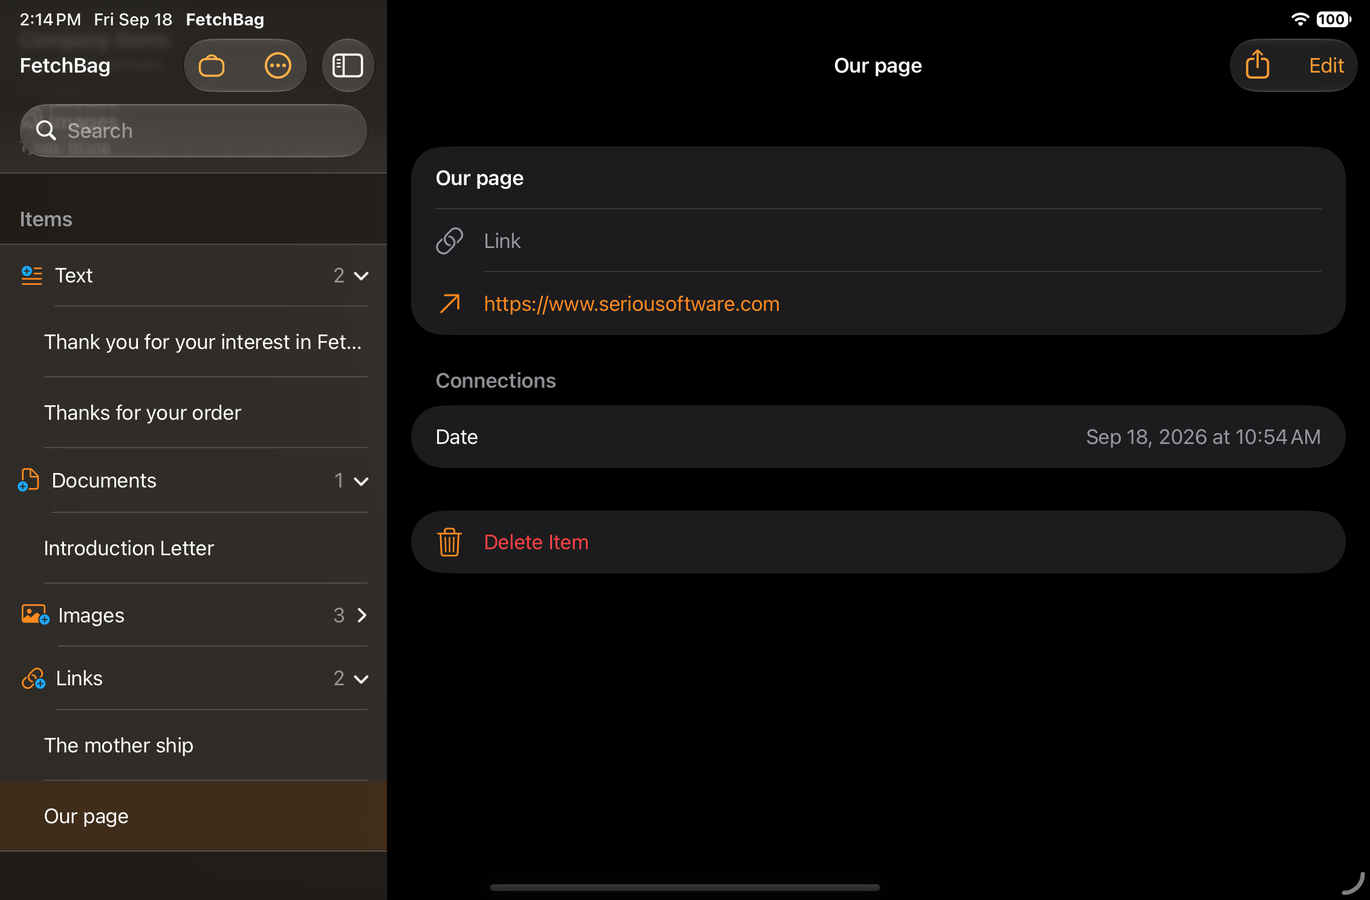
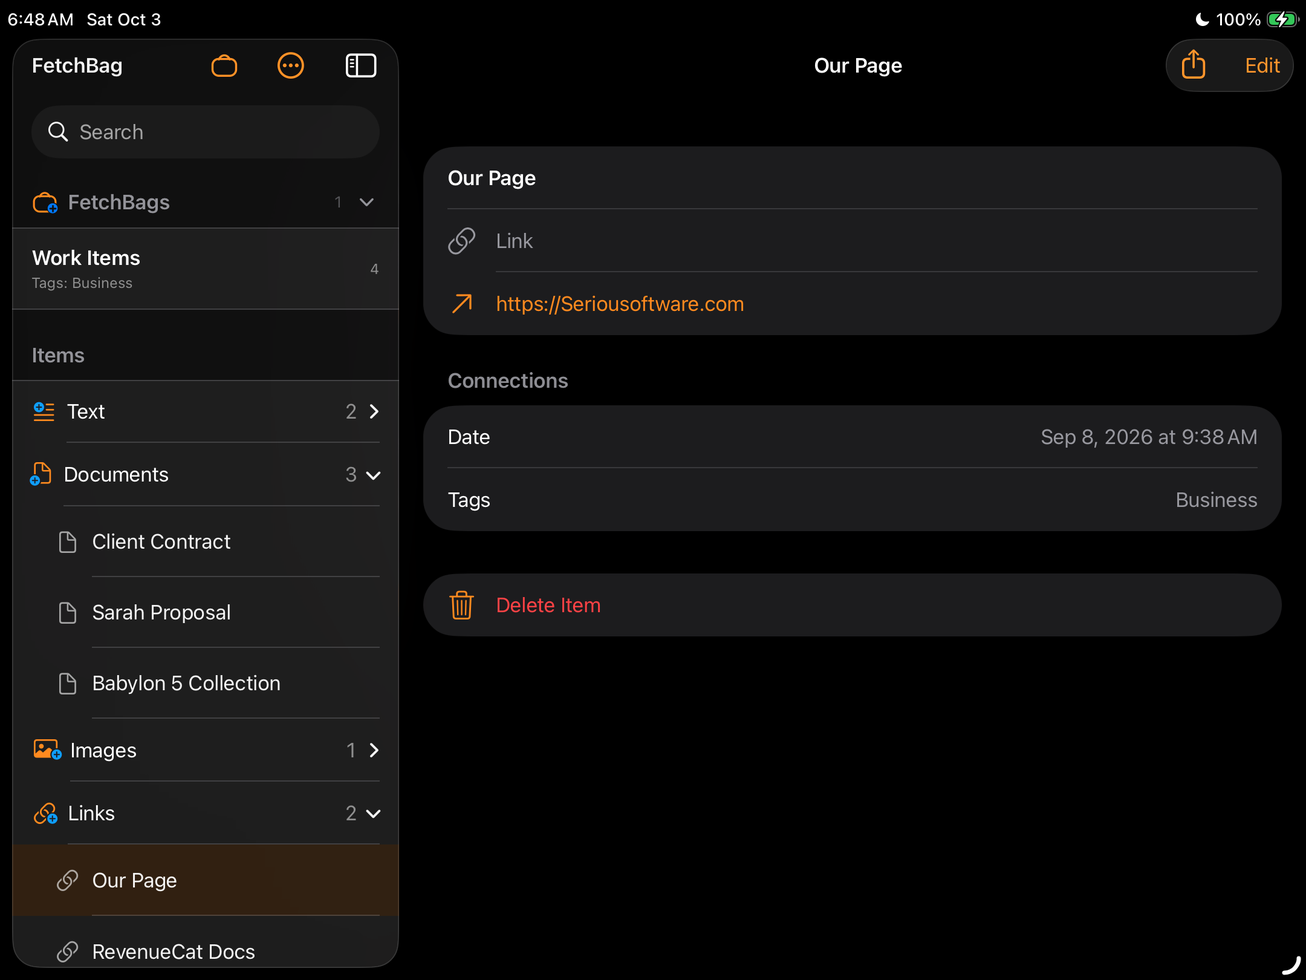
website updates for the 1.1.2 release.

diff --git a/fetchbag/manual/getting-started.html b/fetchbag/manual/getting-started.html
@@ -33,7 +33,7 @@
                 <p>FetchBag is a focused place for information you expect to use again. Save reusable text, documents, images, and web links, connect them to the context you remember, then fetch the right thing when you need it.</p>
 
                 <figure class="documentation__figure">
-                    <img src="/assets/images/fetchbag/manual/library-overview.png" alt="FetchBag main library screen showing the Text, Documents, Images, Links, and FetchBags sections">
+                    <img src="/assets/images/fetchbag/manual/library-overview.png" alt="FetchBag library showing a saved FetchBag and the Text, Documents, Images, and Links groups with a Link Item selected">
                 </figure>
 
                 <h2>Your FetchBag library</h2>
@@ -48,7 +48,9 @@
 
                 <h2>Where FetchBag stores your Items</h2>
                 <p>By default, FetchBag stores your Items and saved searches in a local FetchBag folder in the app's internal Documents directory.</p>
-                <p>You can choose a different storage folder in Settings. When you do, FetchBag asks whether you would like the current files moved to the new location.</p>
+                <p>You can choose a different storage folder in Settings. If your current library contains Items, FetchBag asks whether to move the existing files or switch folders without moving them.</p>
+                <p>To use the same FetchBag on multiple devices, choose a folder available on each device, such as a folder in iCloud Drive. In FetchBag Settings on each device, select that same FetchBag folder. Your Items, their connections, and saved FetchBags become available as iCloud Drive or your storage provider synchronizes the folder. FetchBag does not provide its own cloud synchronization.</p>
+                <p>Referenced Documents need separate permission on each device. See <a href="#document-access">Using a Document on another device</a> below.</p>
 
                 <h2>Add something you want to use again</h2>
                 <p>Every Item has a title and can also include a date, people, places, and tags. The Item type determines the primary content you add.</p>
@@ -59,7 +61,7 @@
                 <p>Once saved, a Text Item includes an <strong>Email</strong> action. FetchBag opens your default email app with the Item's title as the subject and its Text as the message body.</p>
 
                 <figure class="documentation__figure">
-                    <img src="/assets/images/fetchbag/manual/add-text-screen.png" alt="Add Text screen showing Title, Text, Date, People, Places, and Tags fields with sample content">
+                    <img src="/assets/images/fetchbag/manual/add-text-screen.png" alt="Text Item editor with a sample reply, empty People and Places fields, and a Date">
                 </figure>
 
                 <h3>Add a Link Item</h3>
@@ -73,14 +75,23 @@
                 <p>When available, FetchBag uses photo metadata to help add context automatically. It can use the image creation date as the Item date and, when GPS metadata is available, resolve the image location to a city and state.</p>
 
                 <figure class="documentation__figure">
-                    <img src="/assets/images/fetchbag/manual/add-image-screen.png" alt="Add Image screen after selecting a photo, with Date and Place automatically filled from image metadata">
+                    <img src="/assets/images/fetchbag/manual/add-image-screen.png" alt="Image Item editor with a selected photo filename, Notes, People, Places, Date, and Tags fields">
                 </figure>
 
                 <h3>Add a Document Item</h3>
                 <p>Create a Document Item and choose a file. You can also add <strong>Notes</strong> about the document.</p>
                 <p>FetchBag can use the file name as the title and the file modification date as the Item date when those values are available.</p>
-                <p>FetchBag keeps a reference to the original document rather than making a copy. This means changes to the original remain available through FetchBag.</p>
-                <p>If the document is moved or FetchBag can no longer find it, the Document Item remains in FetchBag with its saved information. You can reconnect the FetchBag Item to the document's new location in FetchBag.</p>
+                <p>FetchBag references the original Document without copying it into your FetchBag folder. Changes to the original remain available through FetchBag.</p>
+
+                <h3 id="document-access">Using a Document on another device</h3>
+                <p>Each device needs permission to access a referenced Document. The first time you use it on another device, FetchBag may show <strong>Reselect Document</strong>. Select the original Document in Files to give that device access. FetchBag remembers the selection on that device for future use.</p>
+                <p>If the original moves or access is lost, use <strong>Reconnect File</strong> to select the original again. A cloud file may also be temporarily unavailable or still downloading; that does not mean it has been deleted. Check that the file is available in Files and try again.</p>
+                <p>Your Document Item's title, Notes, and connections remain in FetchBag even when the original is unavailable. If the original was deleted, restore it from its storage location or a backup before reconnecting.</p>
+                <!-- Screenshot pending: /assets/images/fetchbag/manual/document-recovery.png
+                     Capture a referenced Document in 1.1.2 showing Reselect Document on
+                     another device (or Reconnect File after access is lost). Add a
+                     documentation__figure here with alt text matching the captured state.
+                     Do not add an img reference until the actual screenshot exists. -->
 
                 <h2>Connect an Item to what you remember</h2>
                 <p>Finding something later is often easier when you remember its context rather than its exact title or filename.</p>
@@ -105,7 +116,7 @@
                 <p>FetchBag searches across titles, Item types, Text and Notes content, URLs, file names, people, places, and tags.</p>
 
                 <figure class="documentation__figure">
-                    <img src="/assets/images/fetchbag/manual/search-results.png" alt="Main library with active Search showing multiple matching results across different Item types">
+                    <img src="/assets/images/fetchbag/manual/search-results.png" alt="FetchBag library with an active search showing matching Text, Document, and Link Items and a sample Text Item selected">
                 </figure>
 
                 <h2>Use QuickBag for a compound search</h2>
@@ -126,7 +137,7 @@
                 <p>You can also run QuickBag without any criteria to see all Items.</p>
 
                 <figure class="documentation__figure">
-                    <img src="/assets/images/fetchbag/manual/quickbag-screen.png" alt="QuickBag definition screen with multiple criteria selected, including Item type, Person, Place, and Date range">
+                    <img src="/assets/images/fetchbag/manual/quickbag-screen.png" alt="QuickBag with Image selected and a Between date range; Title, Notes, Image Name, People, Places, and Tags are empty">
                 </figure>
 
                 <p>Run the search and all matching Items are displayed.</p>
@@ -140,15 +151,15 @@
                 <h2>Fetch and reuse an Item</h2>
                 <p>Select an Item to open its detail view. The available actions depend on what kind of Item you fetched.</p>
                 <ul>
-                    <li><strong>Text</strong> — reuse the saved Text or send it through your email app.</li>
-                    <li><strong>Document</strong> — share the original document with compatible apps.</li>
-                    <li><strong>Image</strong> — preview the image with Quick Look and use the system sharing options when needed.</li>
-                    <li><strong>Link</strong> — open the saved URL.</li>
+                    <li><strong>Text</strong> — select and copy the text, use <strong>Email</strong> to compose a message, or use <strong>Share</strong> to send it to another app.</li>
+                    <li><strong>Document</strong> — use <strong>Open</strong> to open the original Document with a compatible app, or use <strong>Share</strong>.</li>
+                    <li><strong>Image</strong> — use <strong>Quick View</strong> to preview the image with Quick Look, or use <strong>Share</strong>.</li>
+                    <li><strong>Link</strong> — tap the saved URL to open it, or use <strong>Share</strong>.</li>
                 </ul>
-                <p>If a referenced Document is no longer available, FetchBag keeps the Item and its saved information so you can reconnect it to the document's new location.</p>
+                <p>If you cannot open a referenced Document, follow the <a href="#document-access">Document access and recovery steps</a> above. Your saved Item and its connections remain available.</p>
 
                 <figure class="documentation__figure">
-                    <img src="/assets/images/fetchbag/manual/item-detail-view.png" alt="Item detail view showing title, content preview, connections, and retrieval actions like Copy and Open">
+                    <img src="/assets/images/fetchbag/manual/item-detail-view.png" alt="Image Item detail showing the Flowers title, filename, Quick View action, photo preview, and Share button">
                 </figure>
 
                 <h2>Use FetchBag with Shortcuts</h2>
@@ -158,7 +169,7 @@
 
                 <h2>Use FetchBag with a keyboard</h2>
                 <p>FetchBag supports hardware keyboards on iPad, including commands for creating Items, saving and editing, moving between fields, and working with QuickBag.</p>
-                <p>See <a href="/fetchbag/manual/keyboard-support.html">Keyboard Shortcuts</a> for the complete list of supported commands.</p>
+                <p>See <a href="/fetchbag/manual/keyboard-support.html">Keyboard Support</a> for the complete list of supported commands.</p>
 
                 <h2>Free and Pro</h2>
                 <p>The free version of FetchBag supports up to <strong>10 saved Items</strong>.</p>

diff --git a/fetchbag/faq/index.html b/fetchbag/faq/index.html
@@ -35,7 +35,7 @@
                     <summary class="faq__question">What is the difference between a QuickBag and a saved FetchBag?</summary>
                     <div class="faq__answer">
                         <p>QuickBag is a one-time compound search. Choose your criteria, run the search, and all matching Items will be displayed.</p>
-                        <p>If you want to use that search again, save it and give it a name. It then appears as a FetchBag in the FetchBags section.</p>
+                        <p>If you want to use that search again, save it and give it a <strong>Bag Name</strong>. It then appears as a FetchBag in the FetchBags section.</p>
                         <p>A saved FetchBag is a saved search. It does not move, copy, or own the Items it finds. Each time you open it, it shows the Items that currently match its criteria, including Items added after the FetchBag was saved.</p>
                     </div>
                 </details>
@@ -43,16 +43,18 @@
                 <details class="faq__item">
                     <summary class="faq__question">Where is my FetchBag data stored?</summary>
                     <div class="faq__answer">
-                        <p>By default, FetchBag stores your Items and saved searches in a local FetchBag folder in the Apps internal documents directory.</p>
-                        <p>You can choose a different storage folder in Settings. When you do that, FetchBag will ask if you would like the current files moved to the new location.</p>
+                        <p>By default, FetchBag stores your Items, their connections, and saved FetchBags in a local FetchBag folder in the app's internal Documents directory.</p>
+                        <p>You can choose a different storage folder in Settings. If your current library contains Items, FetchBag asks whether to move the existing files or switch folders without moving them.</p>
+                        <p>Referenced Documents remain in their original locations. FetchBag does not copy them into your FetchBag folder.</p>
                     </div>
                 </details>
 
                 <details class="faq__item">
                     <summary class="faq__question">Does FetchBag sync between devices?</summary>
                     <div class="faq__answer">
-                        <p>FetchBag does not have its own sync service. If you use the default folder in iCloud, iCloud handles synchronizing those files across your devices.</p>
-                        <p>FetchBag itself does not control or guarantee iCloud synchronization. If you choose a different storage folder, synchronization depends on the file-syncing services available for that folder.</p>
+                        <p>To use the same FetchBag on multiple devices, choose a storage folder available on each device, such as a folder in iCloud Drive. In FetchBag Settings on each device, select that same FetchBag folder.</p>
+                        <p>Your Items, their connections, and saved FetchBags are stored in that folder and become available as iCloud Drive or your storage provider synchronizes them. FetchBag does not provide its own cloud synchronization; the default local folder is not shared between devices.</p>
+                        <p>Referenced Documents are different. Each device needs permission to access the original Document outside the FetchBag folder. The first time you use it on another device, FetchBag may show <strong>Reselect Document</strong>. Select the original Document in Files to give that device access. FetchBag remembers the selection on that device.</p>
                     </div>
                 </details>
 
@@ -67,29 +69,28 @@
                 <details class="faq__item">
                     <summary class="faq__question">What is included in the free version?</summary>
                     <div class="faq__answer">
-                        <p>The free version of FetchBag supports up to 10 saved Items. When you reach that limit, you can upgrade to FetchBag Pro to add more Items.</p>
+                        <p>The free version of FetchBag supports up to 10 saved Items. FetchBag Pro offers unlimited Items.</p>
                     </div>
                 </details>
 
                 <details class="faq__item">
                     <summary class="faq__question">What Shortcuts does FetchBag provide?</summary>
                     <div class="faq__answer">
-                        <p>FetchBag provides four App Shortcuts:</p>
-                        <ul>
-                            <li><strong>Fetch Item</strong> — Finds a saved Item by title and returns its primary saved payload, such as text, a URL, or Item details.</li>
-                            <li><strong>Search FetchBag</strong> — Searches FetchBag using a short query and reports the top matching Items.</li>
-                            <li><strong>Add Text</strong> — Adds a Text Item with a title and optional tags.</li>
-                            <li><strong>Add Document</strong> — Adds a Document Item with an optional title and tags.</li>
-                        </ul>
-                        <p>Search FetchBag understands some useful query patterns, including Item types, simple date phrases such as "before 2025" or "since 2025," and a person's name in some queries. It is not intended to be a general conversational search.</p>
+                        <p>FetchBag features <strong>Search FetchBag</strong>, <strong>Add Text</strong>, and <strong>Add Document</strong>, plus actions that retrieve text, URLs, dates, and files from Items for use in other actions.</p>
+                        <p>See <a href="/fetchbag/manual/shortcuts.html">Using FetchBag with Shortcuts</a> for search criteria, required inputs, and examples.</p>
                     </div>
                 </details>
 
                 <details class="faq__item">
-                    <summary class="faq__question">What happens if a Document Item I added is moved or deleted?</summary>
+                    <summary class="faq__question">What happens if a referenced Document is moved, deleted, or unavailable?</summary>
                     <div class="faq__answer">
-                        <p>FetchBag stores a reference to the document's original file location. If that file is moved or deleted, FetchBag marks the Item title with "(missing)" and displays it in red.</p>
-                        <p>The Item's saved title, notes, and connections remain in FetchBag, but the original document cannot be opened or previewed until the file is restored.</p>
+                        <p>FetchBag references the original Document. Its saved title, Notes, and connections remain in FetchBag even when the original cannot be accessed.</p>
+                        <ul>
+                            <li><strong>Another device needs access:</strong> Use <strong>Reselect Document</strong> and select the original in Files. FetchBag remembers the selection on that device.</li>
+                            <li><strong>A cloud file is temporarily unavailable or downloading:</strong> Check that it is available in Files and try again. This does not mean the original was deleted.</li>
+                            <li><strong>The original moved or access was lost:</strong> Use <strong>Reconnect File</strong> to select the original again.</li>
+                            <li><strong>The original was deleted:</strong> Restore it from its storage location or a backup, then reconnect if needed. FetchBag cannot restore a Document it only references.</li>
+                        </ul>
                     </div>
                 </details>
 

diff --git a/fetchbag/manual/shortcuts.html b/fetchbag/manual/shortcuts.html
@@ -71,17 +71,20 @@
                 <p>Provide:</p>
                 <ul>
                     <li><strong>Document</strong> — required</li>
-                    <li><strong>Title</strong> — optional; FetchBag uses the document's filename when no title is supplied</li>
+                    <li><strong>Title</strong> — optional; FetchBag uses the document's filename without its extension when no title is supplied</li>
                     <li><strong>Tags</strong> — optional</li>
                 </ul>
-                <p>FetchBag keeps a reference to the original document rather than making a copy. This means changes to the original remain available through FetchBag.</p>
-                <p>If the document is moved or FetchBag can no longer find it, the Document Item remains in FetchBag with its saved information. You can reconnect the FetchBag Item to the document’s new location in FetchBag.</p>
+                <p>When Shortcuts supplies an accessible file URL, FetchBag references the original Document. Changes to the original remain available through FetchBag. If Shortcuts instead supplies file data without an original file URL, FetchBag stores that supplied data with the Item; it is not a reference to an original Document.</p>
+                <p>If a supplied file URL cannot be accessed, the action may fail. It does not automatically store a copy instead.</p>
+                <p>If access to a referenced Document is unavailable, the Item's title, Notes, and connections remain in FetchBag. See <a href="#document-access">Using referenced Documents on another device</a> for access and recovery steps.</p>
                 <p>The new Item is immediately available to FetchBag and other Shortcut actions.</p>
                 <p>The normal free-version Item limit applies when adding Items through Shortcuts.</p>
 
                 <h2>Using Items in Other Shortcut Actions</h2>
                 <p><strong>Search FetchBag</strong>, <strong>Add Text</strong>, and <strong>Add Document</strong> return FetchBag Items that can be passed to other actions in your shortcut.</p>
                 <p>FetchBag provides several actions for getting useful information from those Items.</p>
+                <p>For Document and Image Items, use <strong>Get FetchBag Item File</strong> before passing the result to an action that expects a file. <strong>Search FetchBag</strong> returns FetchBag Item entities, not the underlying Document or Image files.</p>
+                <p>For example: <strong>Search FetchBag</strong> → <strong>Choose from List</strong> → <strong>Get FetchBag Item File</strong> → <strong>Quick Look</strong>.</p>
 
                 <h3>Get FetchBag Item Text</h3>
                 <p><strong>Get FetchBag Item Text</strong> returns a selected text value from a FetchBag Item.</p>
@@ -89,14 +92,14 @@
                 <ul>
                     <li><strong>Title</strong></li>
                     <li><strong>Item Type</strong></li>
-                    <li><strong>Text Content</strong></li>
+                    <li><strong>Text</strong></li>
                     <li><strong>Notes</strong></li>
                     <li><strong>People</strong></li>
                     <li><strong>Places</strong></li>
                     <li><strong>Tags</strong></li>
                     <li><strong>File Name</strong></li>
                 </ul>
-                <p>For example, use <strong>Text Content</strong> to retrieve the reusable text from a Text Item, or <strong>People</strong> to retrieve the people connected to an Item.</p>
+                <p>For example, use <strong>Text</strong> to retrieve the reusable text from a Text Item, or <strong>People</strong> to retrieve the people connected to an Item.</p>
 
                 <h3>Get FetchBag Item URL</h3>
                 <p><strong>Get FetchBag Item URL</strong> returns the URL from a Link Item as a URL that can be passed to another Shortcut action.</p>
@@ -116,7 +119,15 @@
                     <li><strong>Open In</strong></li>
                     <li><strong>Send Email</strong></li>
                 </ul>
-                <p>For externally referenced documents, FetchBag uses its saved access to retrieve the original file when it is available.</p>
+                <p>For externally referenced Documents, FetchBag uses the access saved on the device running the shortcut to retrieve the original file when it is available.</p>
+
+                <h3 id="document-access">Using referenced Documents on another device</h3>
+                <p>To use the same FetchBag on multiple devices, choose a folder available on each device, such as a folder in iCloud Drive, and select that same FetchBag folder in FetchBag Settings on every device. Your Items and connections become available as the storage provider synchronizes the folder. FetchBag does not provide its own cloud synchronization.</p>
+                <p>Access to referenced Documents is separate. If <strong>Get FetchBag Item File</strong> reports that a Document needs access on this device, open the Item in FetchBag and use <strong>Reselect Document</strong> to select the original in Files. FetchBag remembers that selection on the device. Run the shortcut again after selecting the Document.</p>
+                <p>If access has been lost, use <strong>Reconnect File</strong> in FetchBag. A cloud file may also be temporarily unavailable or still downloading; check that it is available in Files before trying again. If the original has been deleted, restore it before reconnecting. The Item's title, Notes, and connections remain in FetchBag.</p>
+
+                <h3>Fetch Item</h3>
+                <p><strong>Fetch Item</strong> is also available as a title-matching action that returns a text result. For automations that need a Document or Image file, use <strong>Search FetchBag</strong> followed by <strong>Get FetchBag Item File</strong>.</p>
             </section>
         </div>
     </main>

diff --git a/fetchbag/index.html b/fetchbag/index.html
@@ -31,6 +31,8 @@
                 <p class="hero__description">
                     Stop re-finding information you already have. FetchBag keeps the text snippets, images, documents, and links you reuse in one focused place, connected to the context that makes them meaningful. Instead of remembering where you put something, find it using what you do remember—the people, places, dates, tags, or details surrounding it. FetchBag helps you spend less time searching and more time using the information you already have.
                 </p>
+                <p>Available for iPhone and iPad. You can also run the iPad app on compatible Apple-silicon Macs.</p>
+                <p><a class="cta" href="https://apps.apple.com/app/fetchbag/id6801034314">Download FetchBag on the App Store</a></p>
             </section>
 
             <section>
@@ -52,6 +54,7 @@
                 <p>
                     Check our <a href="/fetchbag/faq/">FAQ</a> for answers to common questions about FetchBag.
                 </p>
+                <p>The free version includes up to 10 saved Items. FetchBag Pro offers unlimited Items.</p>
                 <p>
                     <a href="/fetchbag/support/">Get support</a> or <a href="/">return home</a>.
                 </p>

diff --git a/fetchbag/support/index.html b/fetchbag/support/index.html
@@ -35,6 +35,7 @@
                 <p>
                     Read our <a href="/fetchbag/manual/getting-started.html">Getting Started guide</a> to learn how to add and organize Items.
                 </p>
+                <p>Explore <a href="/fetchbag/manual/shortcuts.html">Using FetchBag with Shortcuts</a> for automations, or <a href="/fetchbag/manual/keyboard-support.html">Keyboard Support</a> for hardware-keyboard commands.</p>
 
             </section>
 

diff --git a/fetchbag/manual/keyboard-support.html b/fetchbag/manual/keyboard-support.html
@@ -31,7 +31,7 @@
 
             <section class="documentation">
                 <h2>Keyboard Shortcuts</h2>
-                <p>FetchBag supports these shortcuts when using a hardware keyboard:</p>
+                <p>FetchBag 1.1.2 supports these shortcuts on iPad when using a hardware keyboard:</p>
 
                 <h3>Library</h3>
                 <ul>
